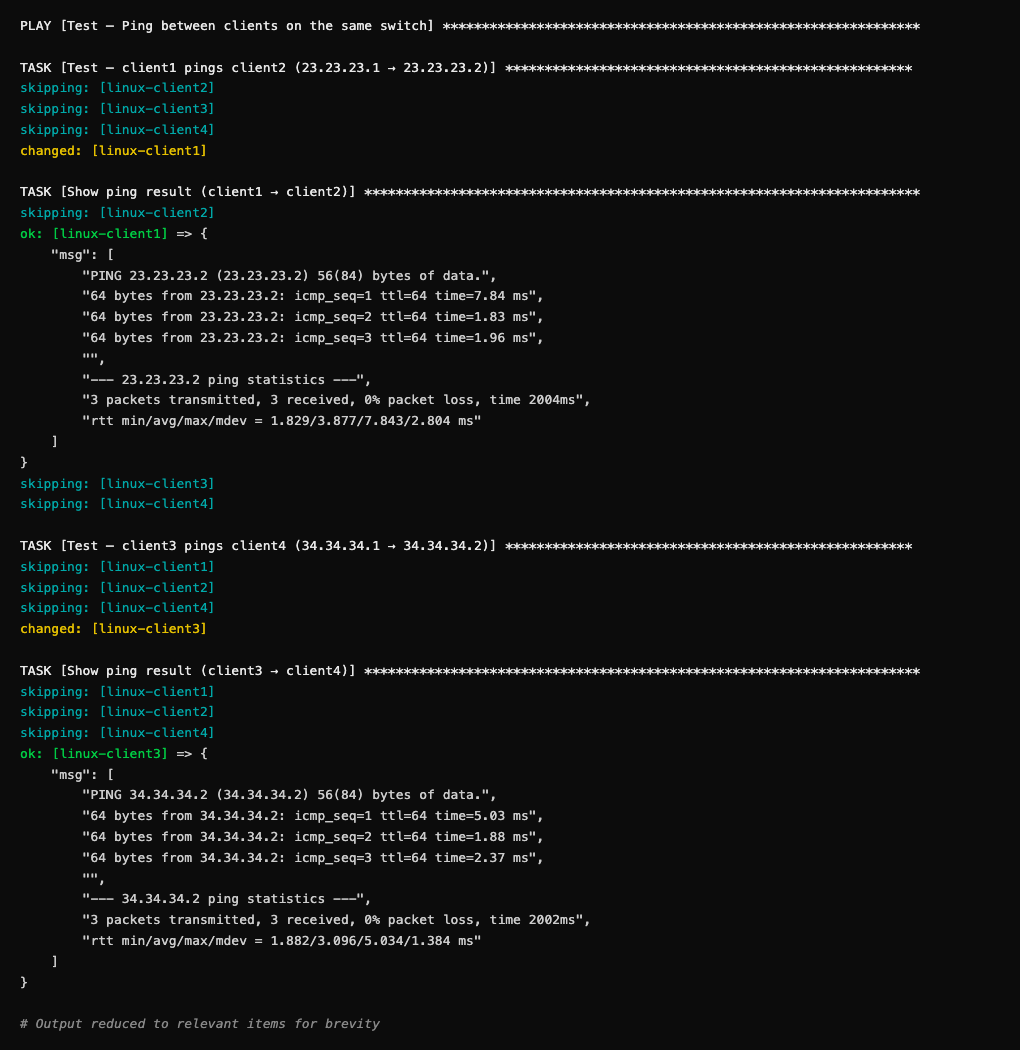
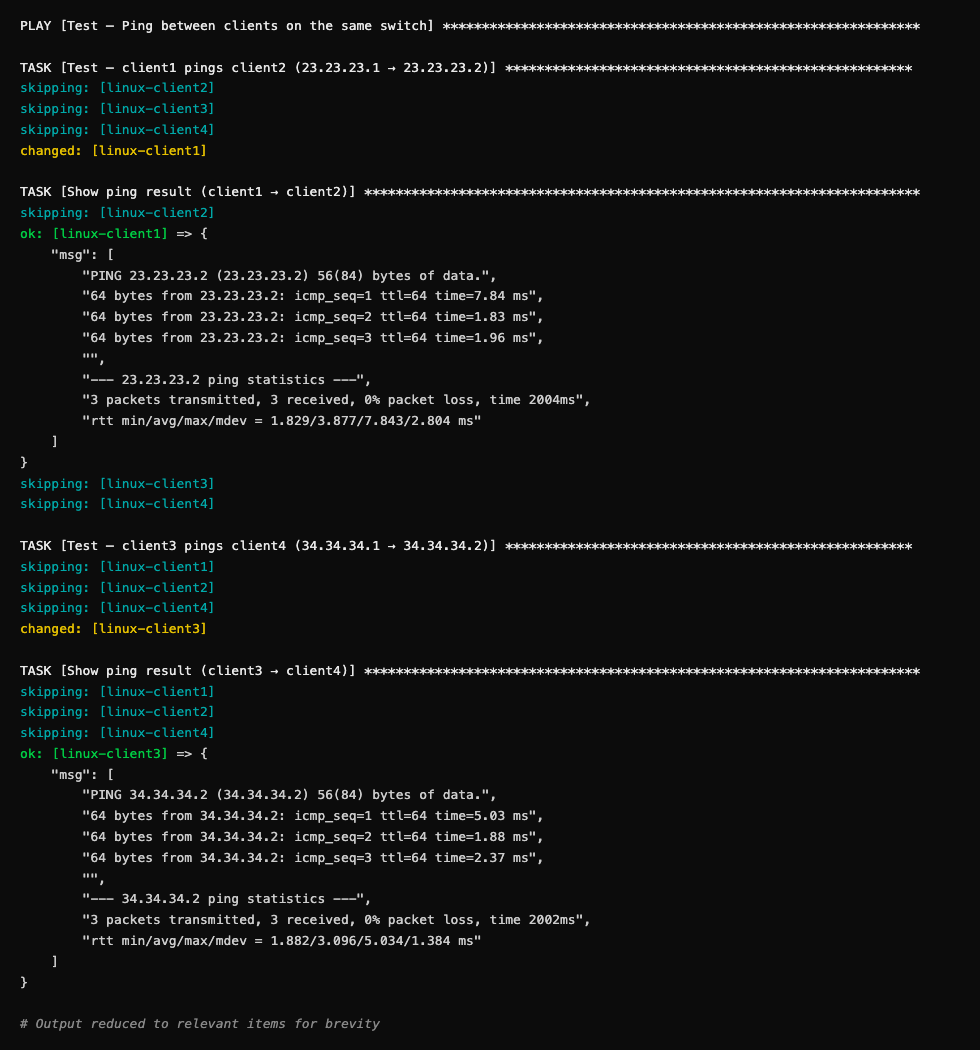
Standardize terminal output image width to 980px

diff --git a/images/ansible_image.md b/images/ansible_image.md
@@ -44,14 +44,20 @@ The HTML template used to generate these images is stored at `/tmp/ansible-outpu
 
 ---
 
+## Standard Image Width
+
+All terminal output images **must be 980px wide**. This ensures consistent rendering
+across the lab guide. Always use `--window-size=980,<height>` when exporting.
+
+---
+
 ## Export Process
 
 1. Write content to an HTML file using `<span>` tags with the colors above
-2. Export with headless Chrome:
+2. Export with headless Chrome at **980px width**:
    ```bash
    "/Applications/Google Chrome.app/Contents/MacOS/Google Chrome" \
      --headless=new --disable-gpu \
-     --run-all-compositor-stages-before-draw \
      --screenshot="images/<filename>.png" \
      --window-size=980,<height> --hide-scrollbars \
      "file:///tmp/ansible-output.html"
